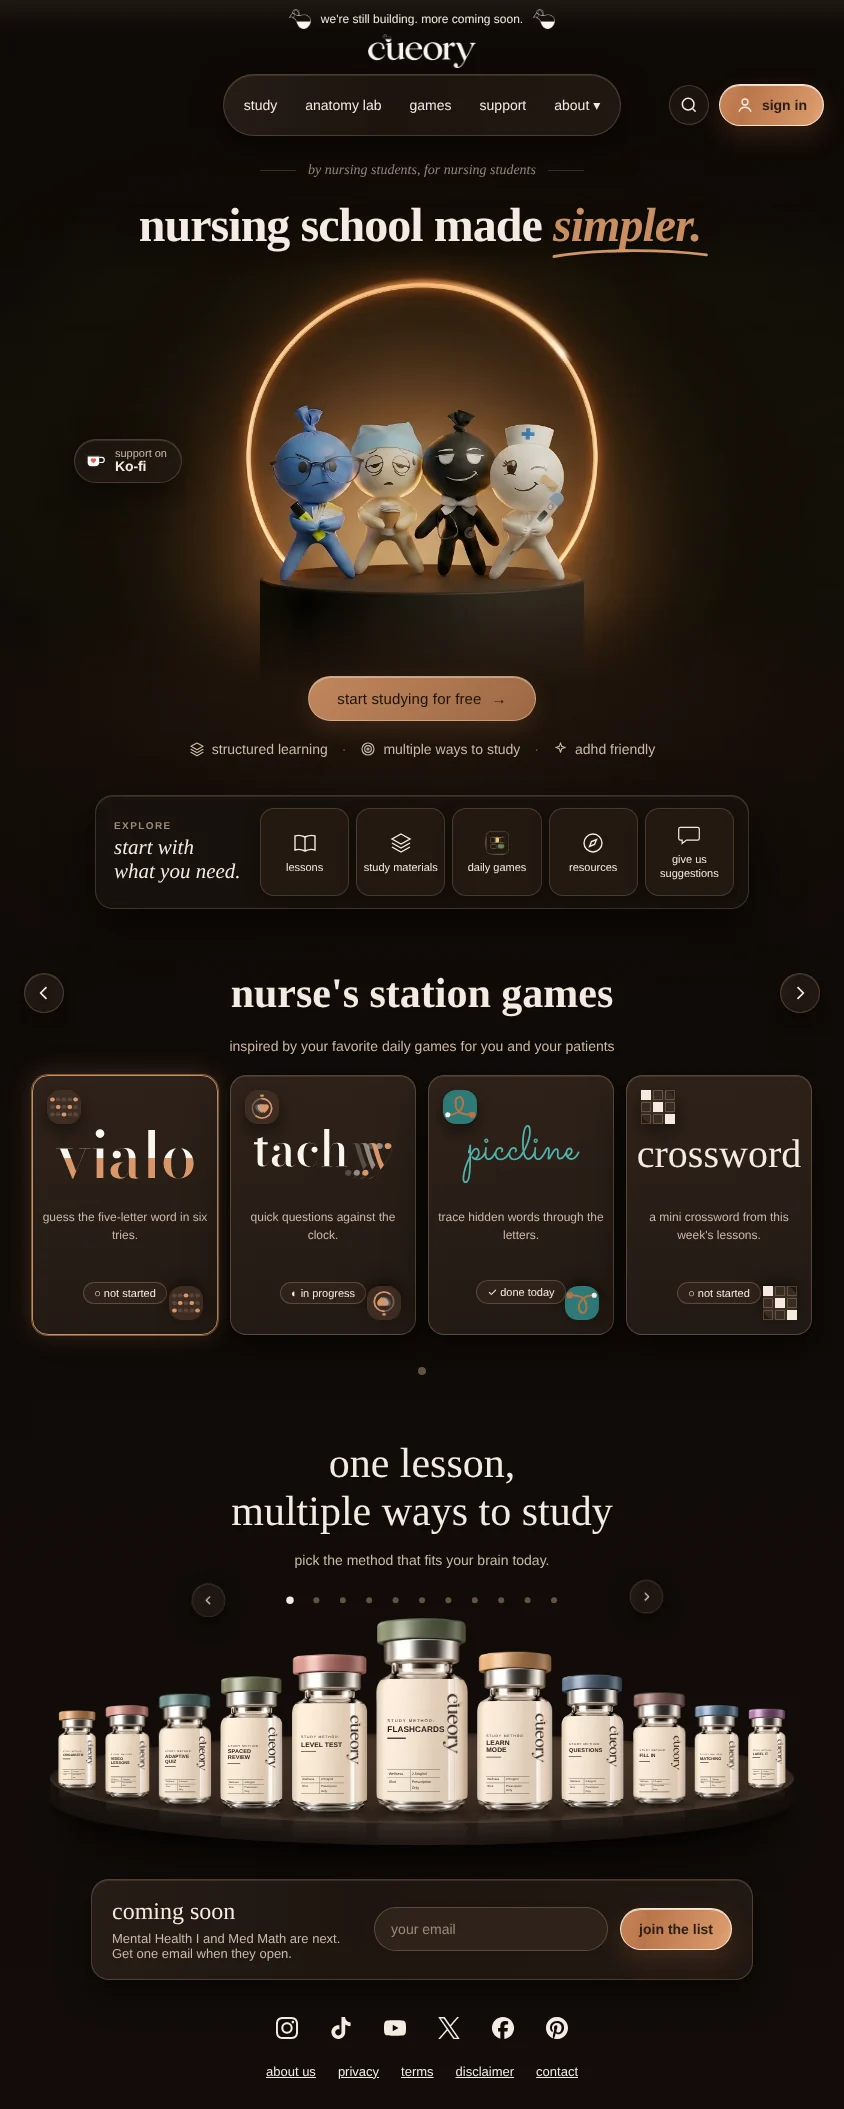
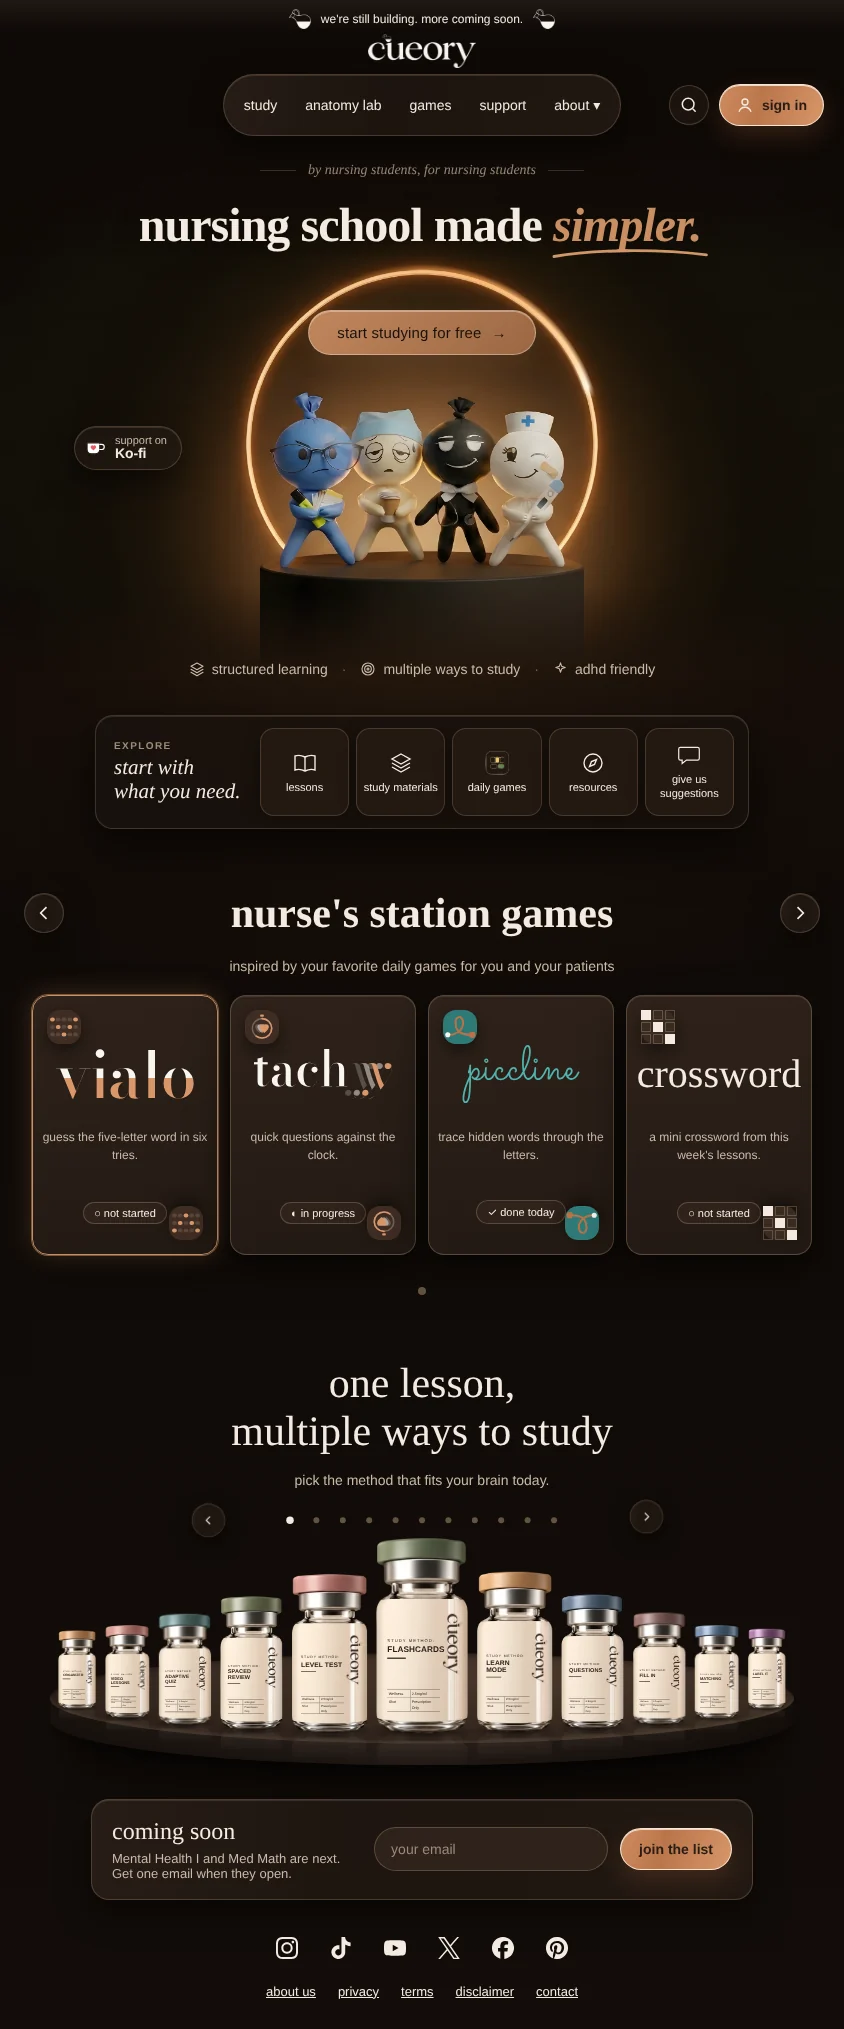
Home v3 hand-off: landscape start button inside the halo
Claude-Session: https://claude.ai/code/session_01V8pHm5xDFd3PCqqXThexqv

diff --git a/docs/design/home-v3/home-landscape-evening.dc.html b/docs/design/home-v3/home-landscape-evening.dc.html
@@ -191,9 +191,9 @@ section:not([id]){padding:26px 24px 0!important;max-width:none!important}
 section:not([id]) > div:first-child{font-size:14px!important;gap:12px!important;margin-bottom:20px!important}
 section:not([id]) > div:first-child > span{width:36px!important}
 section:not([id]) > h1{font-size:48px!important;line-height:1.12!important}
-section:not([id]) > a{margin-top:22px!important;font-size:15px!important;padding:13px 28px!important}
+section:not([id]) > a{margin-top:58px!important;font-size:15px!important;padding:13px 28px!important}
 section:not([id]) > div:nth-of-type(3){margin-top:20px!important;gap:12px 14px!important;font-size:14px!important}
-section:not([id]) > div:nth-of-type(2){height:252px!important;margin-top:150px!important;max-width:none!important;width:576px!important}
+section:not([id]) > div:nth-of-type(2){height:252px!important;margin-top:34px!important;max-width:none!important;width:576px!important}
 section:not([id]) > div:nth-of-type(2) > img{width:864px!important;height:482px!important;top:-198px!important}
 .halo-shine{top:56px!important;width:362px!important;height:362px!important;margin:-181px 0 0 -181px!important;-webkit-mask-image:radial-gradient(circle,transparent 169px,#000 173px,#000 176px,transparent 181px)!important;mask-image:radial-gradient(circle,transparent 169px,#000 173px,#000 176px,transparent 181px)!important}
 section:not([id]) > div:nth-of-type(2) > a{left:-60px!important;top:37px!important;padding:7px 14px 7px 10px!important;gap:8px!important}
@@ -272,12 +272,13 @@ footer{padding:12px 24px 30px!important;gap:10px 22px!important;justify-content:
 <section style="max-width: 1120px; margin: 0 auto; padding: 20px 24px 0; display: flex; flex-direction: column; align-items: center; text-align: center; position: relative; z-index: 1; color: #f4ebe1">
 <div style="display: inline-flex; align-items: center; gap: 14px; font-family: 'Playfair Display', Georgia, serif; font-style: italic; font-size: 16px; color: #9e8a78; margin-bottom: 16px; position: relative; z-index: 3"><span aria-hidden="true" style="width: 48px; height: 1px; background: rgba(203,185,167,0.22)"></span>by nursing students, for nursing students<span aria-hidden="true" style="width: 48px; height: 1px; background: rgba(203,185,167,0.22)"></span></div>
 <h1 style="text-shadow: 0 8px 28px rgba(0,0,0,0.45); margin: 0; font-family: &quot;Bodoni Moda&quot;; font-weight: 700; font-size: 66px; line-height: 1.08; letter-spacing: -0.02em; color: #f4ebe1; position: relative; z-index: 3"><span>nursing school made</span> <span style="position: relative; display: inline-block; font-style: italic; color: #c98f63; padding-right: 4px">simpler.<svg aria-hidden="true" viewBox="0 0 220 18" preserveAspectRatio="none" fill="none" style="position: absolute; left: -2px; bottom: -8px; width: 104%; height: 14px; color: #d19668"><path d="M4 13.5C58 4.5 148 3.5 216 11.5" stroke="currentColor" stroke-width="3.6" stroke-linecap="round"></path></svg></span></h1>
+<a href="#" style="margin-top: -28px; display: inline-flex; align-items: center; gap: 10px; padding: 13px 28px; border-radius: 999px; background: linear-gradient(135deg, #c1875d 0%, #9b6743 100%); border: 1px solid rgba(255,242,230,0.35); box-shadow: 0 8px 22px rgba(132,86,52,0.28), inset 0 1px 0 rgba(255,255,255,0.35); color: #1c120c; text-decoration: none; font-size: 16px; letter-spacing: 0.01em; position: relative; z-index: 3">start studying for free <span aria-hidden="true">→</span></a>
 <div style="position: relative; width: 100%; max-width: 960px; height: 420px; margin-top: 36px">
 <img src="/design/home-v3/stage-evening.webp" alt="Four glove characters on a round pedestal inside a thin glowing ring: one in glasses holding study cards, one tired in a scrub cap with a coffee, one in a bow tie with a stethoscope, one in a nurse's cap holding a thermometer" style="position: absolute; left: 50%; top: -330px; transform: translateX(-50%); width: 1440px; max-width: none; height: 804px; z-index: 0; pointer-events: none; -webkit-mask-image: linear-gradient(180deg, transparent 0, #000 14%, #000 82%, transparent 100%); mask-image: linear-gradient(180deg, transparent 0, #000 14%, #000 82%, transparent 100%)"><div class="halo-shine" aria-hidden="true"><i></i></div>
 <a href="#" onClick="{{openSupport}}" style="position: absolute; left: 4%; top: 62px; z-index: 12; display: inline-flex; align-items: center; gap: 11px; padding: 10px 18px 10px 14px; border-radius: 999px; background: rgba(34,25,19,0.68); border: 1px solid rgba(226,189,154,0.22); box-shadow: 0 12px 32px rgba(0,0,0,0.55), inset 0 1px 0 rgba(255,230,205,0.12); text-decoration: none; color: #f4ebe1"><svg aria-hidden="true" width="28" height="22" viewBox="0 0 32 24" fill="none"><path d="M3 4.5h18.5v9.8a6.2 6.2 0 01-6.2 6.2H9.2A6.2 6.2 0 013 14.3V4.5z" fill="#ffffff" stroke="#2a1d16" stroke-width="1.7"></path><path d="M21.5 6.8h2.8a3.7 3.7 0 010 7.4h-2.8" stroke="#ffffff" stroke-width="1.7" stroke-linecap="round"></path><path d="M12.2 15.4s-4-2.5-4-5.1a2.3 2.3 0 014-1.5 2.3 2.3 0 014 1.5c0 2.6-4 5.1-4 5.1z" fill="#e85b63"></path></svg><span style="display: flex; flex-direction: column; text-align: left; line-height: 1.12"><span style="font-size: 11px; color: #cbb9a7">support on</span><span style="font-size: 17px; font-weight: 700; letter-spacing: -0.01em">Ko-fi</span></span></a>
 
 </div>
-<a href="#" style="margin-top: -28px; display: inline-flex; align-items: center; gap: 10px; padding: 13px 28px; border-radius: 999px; background: linear-gradient(135deg, #c1875d 0%, #9b6743 100%); border: 1px solid rgba(255,242,230,0.35); box-shadow: 0 8px 22px rgba(132,86,52,0.28), inset 0 1px 0 rgba(255,255,255,0.35); color: #1c120c; text-decoration: none; font-size: 16px; letter-spacing: 0.01em; position: relative; z-index: 3">start studying for free <span aria-hidden="true">→</span></a>
+
 <div style="margin-top: 38px; display: flex; flex-wrap: wrap; align-items: center; justify-content: center; gap: 12px; font-size: 14px; color: #cbb9a7; position: relative; z-index: 3">
 <span style="display: inline-flex; align-items: center; gap: 7px"><svg aria-hidden="true" width="16" height="16" viewBox="0 0 24 24" fill="none" stroke="currentColor" stroke-width="1.7" stroke-linecap="round" stroke-linejoin="round"><path d="M12 3L3 8l9 5 9-5-9-5z"></path><path d="M3 12.5l9 5 9-5"></path><path d="M3 17l9 5 9-5"></path></svg>structured learning</span>
 <span aria-hidden="true" style="opacity: 0.45">·</span>
@@ -434,7 +435,7 @@ footer{padding:12px 24px 30px!important;gap:10px 22px!important;justify-content:
 
 </div>
 </x-dc>
-<script type="text/x-dc" data-dc-script="" data-props="{&quot;$preview&quot;:{&quot;width&quot;:844,&quot;height&quot;:2109}}">
+<script type="text/x-dc" data-dc-script="" data-props="{&quot;$preview&quot;:{&quot;width&quot;:844,&quot;height&quot;:2029}}">
 class Component extends DCLogic {
   constructor(props) { super(props); this.state = { modal: null, about: false, active: 4, game: 0, card: 0 }; }
   renderVals() {

diff --git a/docs/design/home-v3/home-landscape-light.dc.html b/docs/design/home-v3/home-landscape-light.dc.html
@@ -168,9 +168,9 @@ section:not([id]){padding:26px 24px 0!important;max-width:none!important}
 section:not([id]) > div:first-child{font-size:14px!important;gap:12px!important;margin-bottom:20px!important}
 section:not([id]) > div:first-child > span{width:36px!important}
 section:not([id]) > h1{font-size:48px!important;line-height:1.12!important}
-section:not([id]) > a{margin-top:22px!important;font-size:15px!important;padding:13px 28px!important}
+section:not([id]) > a{margin-top:58px!important;font-size:15px!important;padding:13px 28px!important}
 section:not([id]) > div:nth-of-type(3){margin-top:20px!important;gap:12px 14px!important;font-size:14px!important}
-section:not([id]) > div:nth-of-type(2){height:252px!important;margin-top:150px!important;max-width:none!important;width:576px!important}
+section:not([id]) > div:nth-of-type(2){height:252px!important;margin-top:34px!important;max-width:none!important;width:576px!important}
 section:not([id]) > div:nth-of-type(2) > img{width:864px!important;height:482px!important;top:-198px!important}
 .halo-shine{top:56px!important;width:362px!important;height:362px!important;margin:-181px 0 0 -181px!important;-webkit-mask-image:radial-gradient(circle,transparent 169px,#000 173px,#000 176px,transparent 181px)!important;mask-image:radial-gradient(circle,transparent 169px,#000 173px,#000 176px,transparent 181px)!important}
 section:not([id]) > div:nth-of-type(2) > a{left:-60px!important;top:37px!important;padding:7px 14px 7px 10px!important;gap:8px!important}
@@ -249,12 +249,13 @@ footer{padding:12px 24px 30px!important;gap:10px 22px!important;justify-content:
 <section style="max-width: 1120px; margin: 0 auto; padding: 20px 24px 0; display: flex; flex-direction: column; align-items: center; text-align: center; position: relative; z-index: 1; color: #2d1f17">
 <div style="display: inline-flex; align-items: center; gap: 14px; font-family: 'Playfair Display', Georgia, serif; font-style: italic; font-size: 16px; color: #7e695b; margin-bottom: 16px; position: relative; z-index: 3"><span aria-hidden="true" style="width: 48px; height: 1px; background: rgba(92,73,61,0.22)"></span>by nursing students, for nursing students<span aria-hidden="true" style="width: 48px; height: 1px; background: rgba(92,73,61,0.22)"></span></div>
 <h1 style="margin: 0; font-family: &quot;Bodoni Moda&quot;; font-weight: 700; font-size: 66px; line-height: 1.08; letter-spacing: -0.02em; color: #2d1f17; position: relative; z-index: 3"><span>nursing school made</span> <span style="position: relative; display: inline-block; font-style: italic; color: #a47350; padding-right: 4px">simpler.<svg aria-hidden="true" viewBox="0 0 220 18" preserveAspectRatio="none" fill="none" style="position: absolute; left: -2px; bottom: -8px; width: 104%; height: 14px; color: #b5825e"><path d="M4 13.5C58 4.5 148 3.5 216 11.5" stroke="currentColor" stroke-width="3.6" stroke-linecap="round"></path></svg></span></h1>
+<a href="#" style="margin-top: -28px; display: inline-flex; align-items: center; gap: 10px; padding: 13px 28px; border-radius: 999px; background: linear-gradient(135deg, #b6835f 0%, #9b6a48 100%); border: 1px solid rgba(255,242,230,0.35); box-shadow: 0 8px 22px rgba(132,86,52,0.28), inset 0 1px 0 rgba(255,255,255,0.35); color: #2a1c14; text-decoration: none; font-size: 16px; letter-spacing: 0.01em; position: relative; z-index: 3">start studying for free <span aria-hidden="true">→</span></a>
 <div style="position: relative; width: 100%; max-width: 960px; height: 420px; margin-top: 36px">
 <img src="/design/home-v3/stage-light.webp" alt="Four glove characters on a round pedestal inside a thin glowing ring: one in glasses holding study cards, one tired in a scrub cap with a coffee, one in a bow tie with a stethoscope, one in a nurse's cap holding a thermometer" style="position: absolute; left: 50%; top: -330px; transform: translateX(-50%); width: 1440px; max-width: none; height: 804px; z-index: 0; pointer-events: none; -webkit-mask-image: linear-gradient(180deg, transparent 0, #000 14%, #000 82%, transparent 100%); mask-image: linear-gradient(180deg, transparent 0, #000 14%, #000 82%, transparent 100%)"><div class="halo-shine" aria-hidden="true"><i></i></div>
 <a href="#" onClick="{{openSupport}}" style="position: absolute; left: 4%; top: 62px; z-index: 12; display: inline-flex; align-items: center; gap: 11px; padding: 10px 18px 10px 14px; border-radius: 999px; background: rgba(252,249,244,0.62); border: 1px solid rgba(255,255,255,0.78); box-shadow: 0 10px 30px rgba(74,52,36,0.10), inset 0 1px 0 rgba(255,255,255,0.85); text-decoration: none; color: #2d1f17"><svg aria-hidden="true" width="28" height="22" viewBox="0 0 32 24" fill="none"><path d="M3 4.5h18.5v9.8a6.2 6.2 0 01-6.2 6.2H9.2A6.2 6.2 0 013 14.3V4.5z" fill="#ffffff" stroke="#3a2920" stroke-width="1.7"></path><path d="M21.5 6.8h2.8a3.7 3.7 0 010 7.4h-2.8" stroke="#3a2920" stroke-width="1.7" stroke-linecap="round"></path><path d="M12.2 15.4s-4-2.5-4-5.1a2.3 2.3 0 014-1.5 2.3 2.3 0 014 1.5c0 2.6-4 5.1-4 5.1z" fill="#e85b63"></path></svg><span style="display: flex; flex-direction: column; text-align: left; line-height: 1.12"><span style="font-size: 11px; color: #5c493d">support on</span><span style="font-size: 17px; font-weight: 700; letter-spacing: -0.01em">Ko-fi</span></span></a>
 
 </div>
-<a href="#" style="margin-top: -28px; display: inline-flex; align-items: center; gap: 10px; padding: 13px 28px; border-radius: 999px; background: linear-gradient(135deg, #b6835f 0%, #9b6a48 100%); border: 1px solid rgba(255,242,230,0.35); box-shadow: 0 8px 22px rgba(132,86,52,0.28), inset 0 1px 0 rgba(255,255,255,0.35); color: #2a1c14; text-decoration: none; font-size: 16px; letter-spacing: 0.01em; position: relative; z-index: 3">start studying for free <span aria-hidden="true">→</span></a>
+
 <div style="margin-top: 38px; display: flex; flex-wrap: wrap; align-items: center; justify-content: center; gap: 12px; font-size: 14px; color: #5c493d; position: relative; z-index: 3">
 <span style="display: inline-flex; align-items: center; gap: 7px"><svg aria-hidden="true" width="16" height="16" viewBox="0 0 24 24" fill="none" stroke="currentColor" stroke-width="1.7" stroke-linecap="round" stroke-linejoin="round"><path d="M12 3L3 8l9 5 9-5-9-5z"></path><path d="M3 12.5l9 5 9-5"></path><path d="M3 17l9 5 9-5"></path></svg>structured learning</span>
 <span aria-hidden="true" style="opacity: 0.45">·</span>
@@ -413,7 +414,7 @@ footer{padding:12px 24px 30px!important;gap:10px 22px!important;justify-content:
 
 </div>
 </x-dc>
-<script type="text/x-dc" data-dc-script="" data-props="{&quot;$preview&quot;:{&quot;width&quot;:844,&quot;height&quot;:2109}}">
+<script type="text/x-dc" data-dc-script="" data-props="{&quot;$preview&quot;:{&quot;width&quot;:844,&quot;height&quot;:2029}}">
 class Component extends DCLogic {
   constructor(props) { super(props); this.state = { modal: null, about: false, active: 4, game: 0, card: 0 }; }
   renderVals() {

diff --git a/docs/design/home-v3/README.md b/docs/design/home-v3/README.md
@@ -10,7 +10,7 @@ built"). These files are the hand-off for building it. The canvas stays the sour
 | `home-light-1440.webp`, `home-evening-1440.webp` | Full-page pictures of the approved Light and Evening boards at 1440 px wide. Build to match these. |
 | `home-light.dc.html`, `home-evening.dc.html` | The board sources. Read them for exact sizes, spacing, gradients, the halo animation and the vial layout script. They are design files, not page code: rebuild with our components, tokens and layout. |
 | `home-phone-light-390.webp`, `home-phone-evening-390.webp`, `home-phone-*.dc.html` | Phone portrait boards at 390 wide (the logo is centred on the screen, the bottom two explore tiles are centred, and the vial dots sit in one row under the platter with an arrow at each end). The header gets a menu button, with search and sign in as icons; the hero puts the button and points above the stage; the explore dock uses 3 + 2 tiles; game cards swipe; the vial platter shows the front vial plus one each side (D-192), with the arrows under the platter. |
-| `home-landscape-light-844.webp`, `home-landscape-evening-844.webp`, `home-landscape-*.dc.html` | Phone landscape boards (844 × 390). This is the desktop layout at about 60%, with one change to the hero order: the headline, then the glove stage (ring, characters, Ko-fi pill) starting just under it, then the start button, then the three points on one line, then the explore dock as a normal block (no overlap). Below that: four game cards, all 11 vials on the platter, and the email form on one row. |
+| `home-landscape-light-844.webp`, `home-landscape-evening-844.webp`, `home-landscape-*.dc.html` | Phone landscape boards (844 × 390). This is the desktop layout at about 60%, with one change to the hero order: the headline, then the start button inside the top of the halo ring (above the characters, as on desktop), the glove stage with the Ko-fi pill, then the three points on one line under the pedestal, then the explore dock as a normal block (no overlap). Below that: four game cards, all 11 vials on the platter, and the email form on one row. |
 | `/public/design/home-v3/stage-light.webp`, `stage-evening.webp` | Hero background photo (glove characters on the round pedestal inside the glowing ring), 2880 × 1607. |
 | `/public/design/home-v3/silk-band.svg`, `pip-vialo.svg`, `pip-piccline.svg`, `icon-games.webp` | Small pieces the boards use. |
 | `/public/vials/v2/vial-*.webp` | Rebuilt study-method vials, 912 px wide (clean outlines, curved label edges). They replace `/public/vials/*.webp` once the new carousel ships. The method name, table and logo stay live text and official logo artwork laid over the blank label, as today. |
